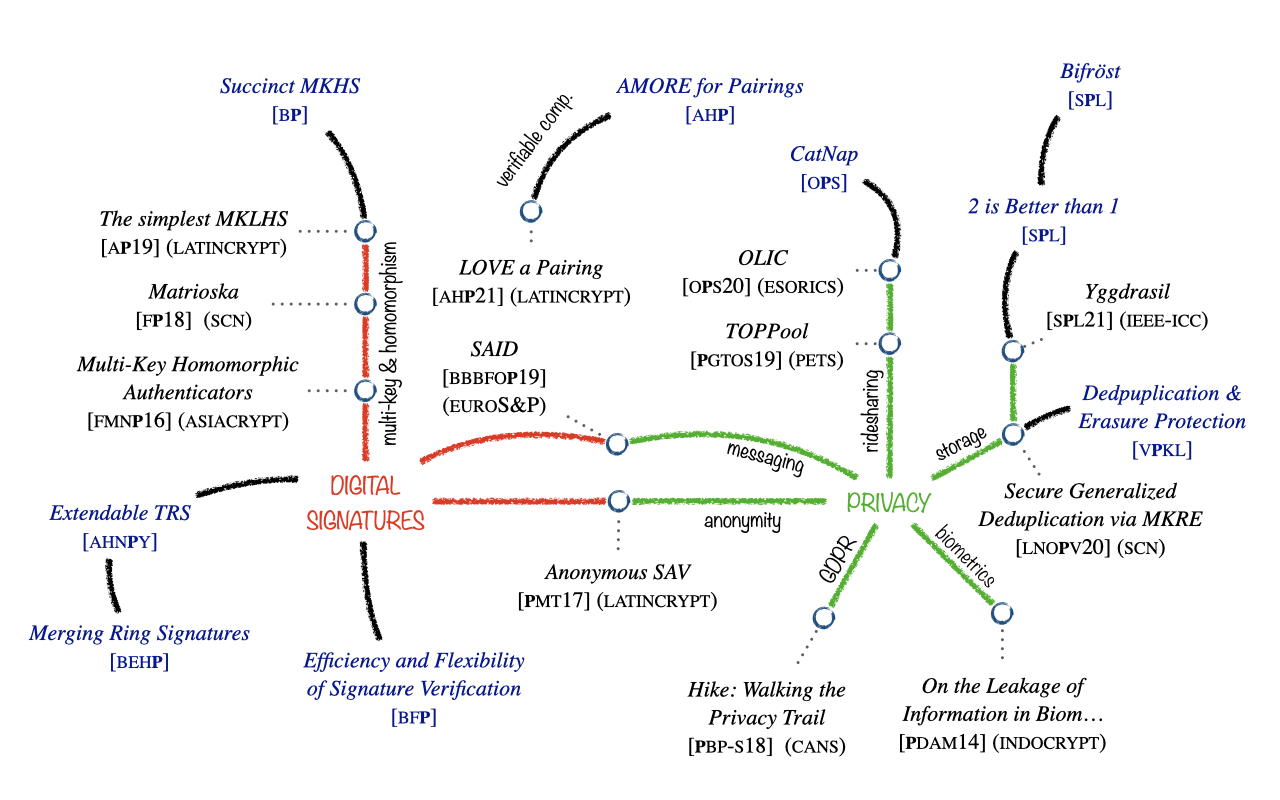
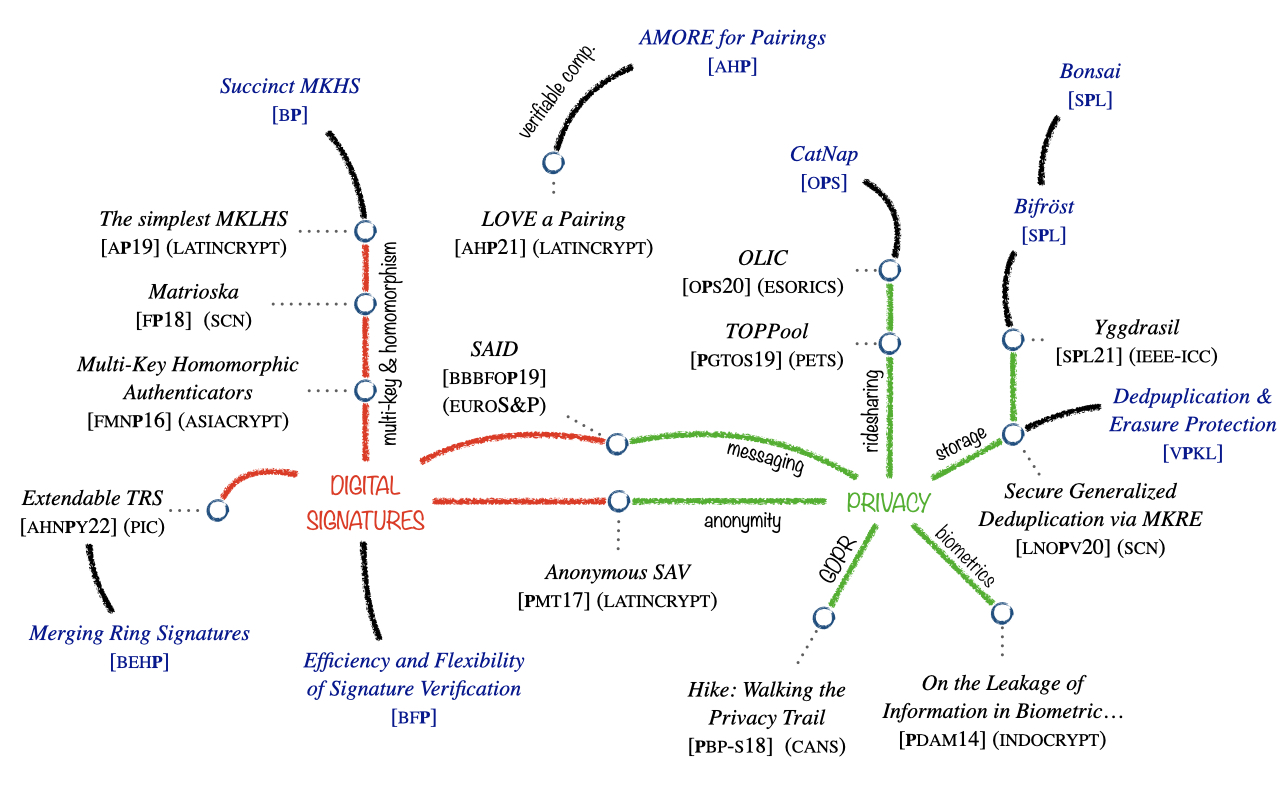
updates

diff --git a/research/index.html b/research/index.html
@@ -75,7 +75,7 @@ or
 <a href="/papers/2018-matrioska/">SCN18</a>,
 <a href="/papers/2016-mkha/">ASIACRYPT16</a>)</li>
 <li><strong>Signatures with Advanced Properties</strong>
-(Ongoing works on flexible verification and extendability for ring signatures)</li>
+(<a href="/papers/2022-extrs/">PKC22</a>)</li>
 <li><strong>Secure and Space-Smart Cloud Storage Solutions</strong>
 (<a href="/papers/2021-yggrdasil/">ICCC21</a>,
 <a href="/papers/2020-mkre/">SCN20</a>)</li>
